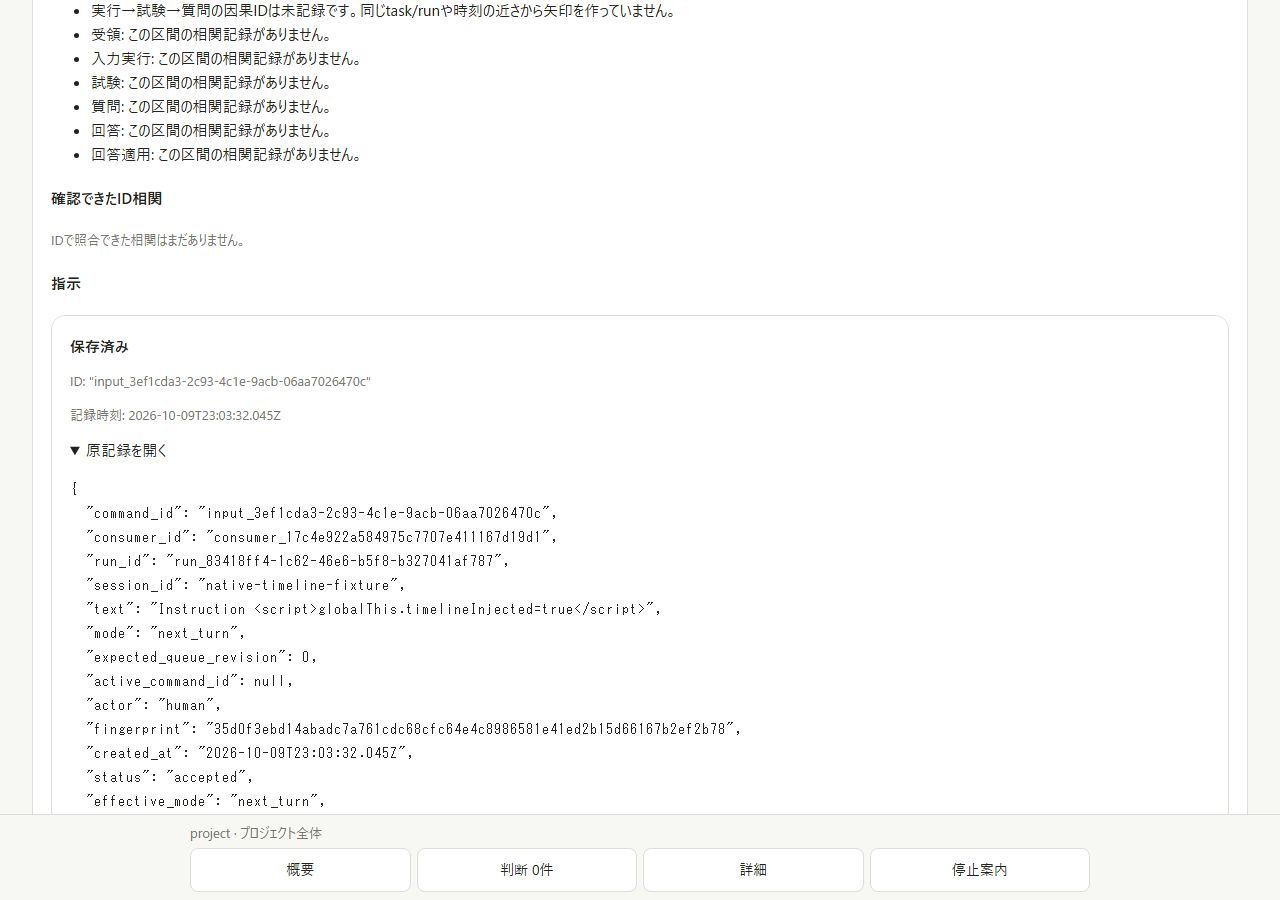
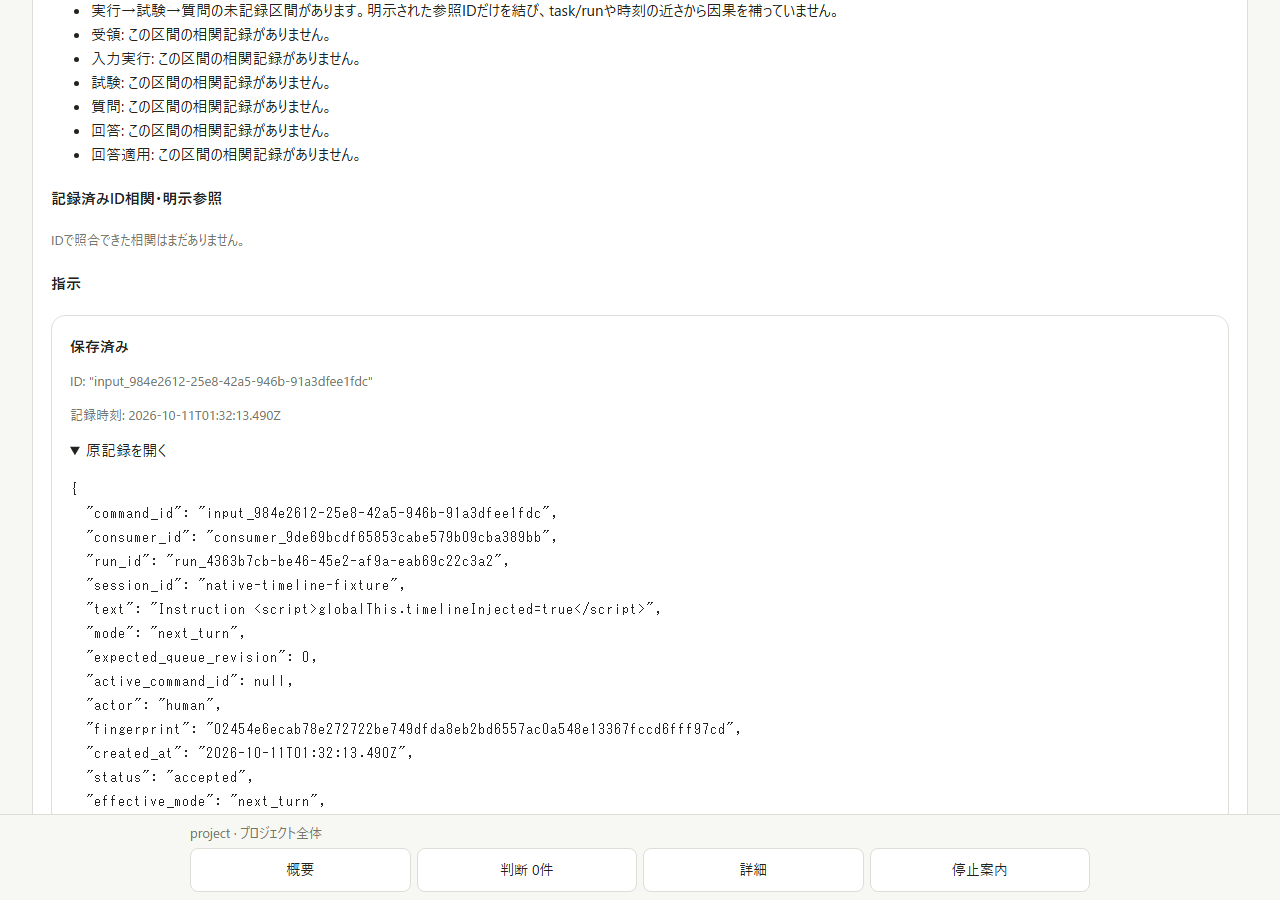
docs(timeline): refresh causal lineage evidence

diff --git a/docs/evidence/causal-timeline/README.md b/docs/evidence/causal-timeline/README.md
@@ -1,18 +1,19 @@
 # 因果タイムラインのブラウザー検証
 
 結果は `runtime-observations.json` に記録されています。検証対象のコードは
-`3f90288c423145455889666779de88f798db30ef` です。隔離した実プロジェクト画面と
-ローカルHTTP APIを使い、要約と問題詳細、安定ID、再読込後のリンク、入力変更後の
-受入検証の古さ、390px幅の表示を確認しました。結果は `PASS`、ページエラーは0件です。
+`8131026b9ead463882dcb62b17f0abdeccb954b8` です。隔離したプロジェクト画面とローカルHTTP APIを使い、要約と問題詳細、
+保存した実行コマンドIDから受入証拠、受入証拠IDから質問・回答への明示リンク、
+再読込後のID保持、入力変更後の受入検証の古さ、390px幅の表示を確認しました。
+結果は `PASS`、ページエラーは0件です。
 
-native入力の受領・処理結果は明示的な保存済みfixtureです。この検証ではproviderや
-モデルを呼び出さず、認証情報やDSH profileも使いません。実際に動かすのはローカルの
-受入コマンドだけで、その結果はnative実行fixtureと区別して記録しています。
+native入力の受領・処理結果は明示的な保存済みfixtureです。リンクIDは人が記録した参照で、
+成功した実行の証明ではありません。この検証ではproviderやモデルを呼び出さず、認証情報や
+DSH profileも使いません。ローカルの受入コマンド結果はnative実行fixtureと区別して記録しています。
 
 リポジトリのルートで再実行できます。
 
 ```sh
-RDSH_QA_SOURCE_HEAD=3f90288c423145455889666779de88f798db30ef \
+RDSH_QA_SOURCE_HEAD=8131026b9ead463882dcb62b17f0abdeccb954b8 \
 RDSH_TIMELINE_E2E_OUTPUT=docs/evidence/causal-timeline \
 npm run test:timeline --prefix tests/e2e
 ```
